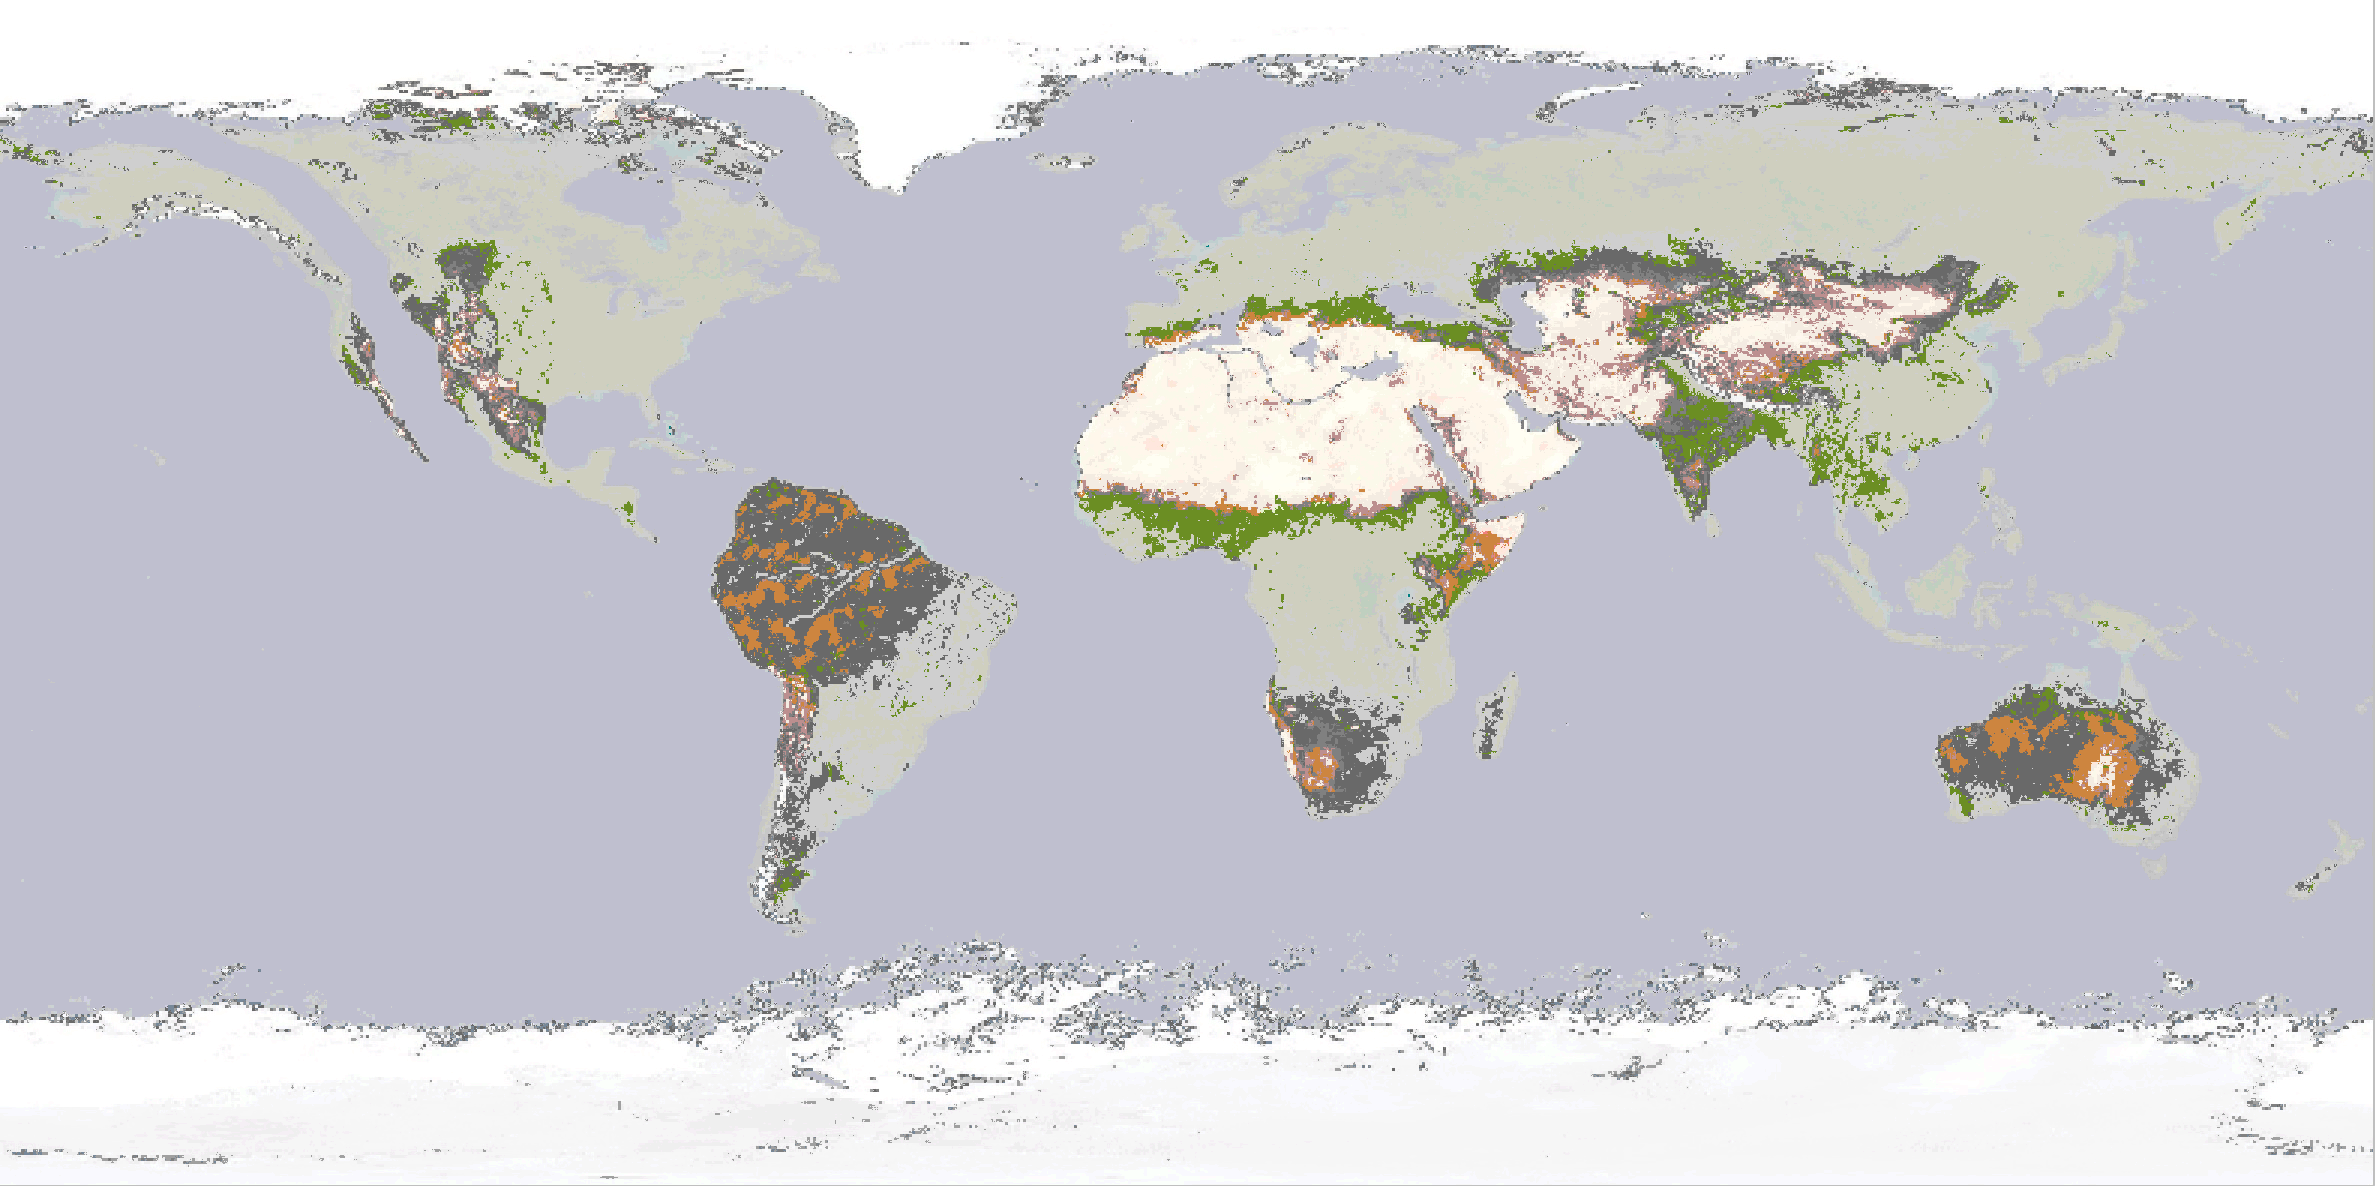
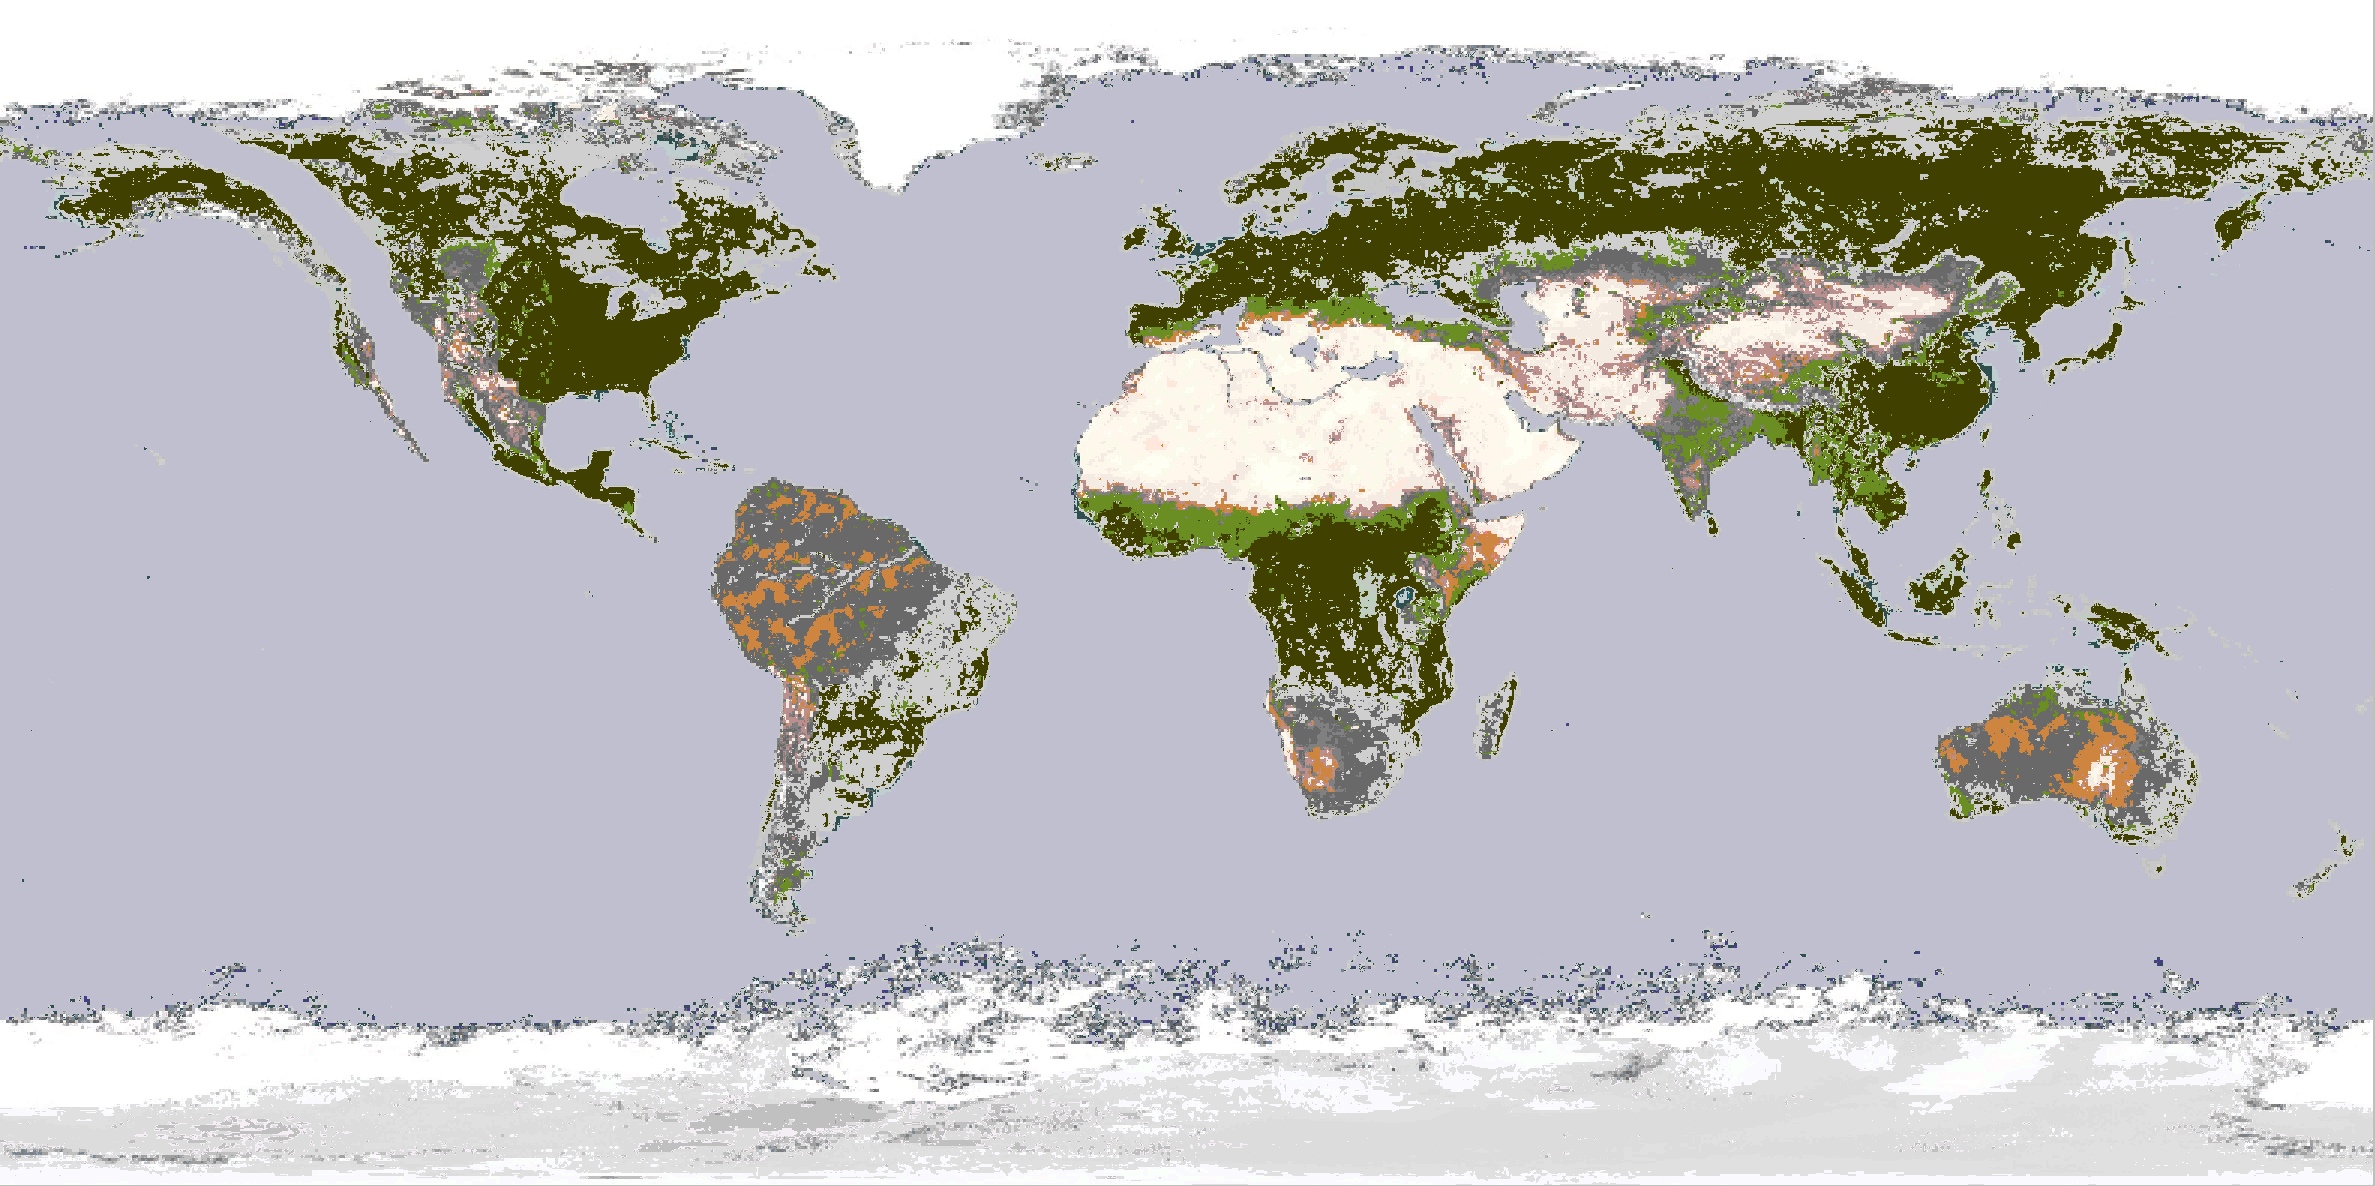
dernières modifs code

diff --git a/src/CopieImage.java b/src/CopieImage.java
@@ -6,10 +6,7 @@ import java.awt.*;
 import java.awt.image.BufferedImage;
 import java.io.File;
 import java.io.IOException;
-import java.util.ArrayList;
-import java.util.Arrays;
-import java.util.HashMap;
-import java.util.Map;
+import java.util.*;
 
 public class CopieImage {
     private BufferedImage image;
@@ -160,6 +157,12 @@ public class CopieImage {
     }
 
 
+    /**
+     * Récupère les positions des pixels pour un biome spécifique
+     * @param clusters
+     * @param biomeId
+     * @return
+     */
     public ArrayList<int[]> getPositionsForBiome(ArrayList<Integer> clusters, int biomeId) {
         ArrayList<int[]> positions = new ArrayList<>();
 
@@ -179,6 +182,12 @@ public class CopieImage {
     }
 
 
+    /**
+     * Affiche les écosystèmes sur l'image en utilisant les positions et les clusters
+     * @param outputPath Chemin de sortie pour l'image résultante
+     * @param positions Liste des positions des pixels
+     * @param ecosClusters Liste des clusters d'écosystèmes
+     */
     public void afficherEcosystemes(String outputPath, ArrayList<int[]> positions, ArrayList<Integer> ecosClusters) {
         BufferedImage newImage = new BufferedImage(image.getWidth(), image.getHeight(), BufferedImage.TYPE_3BYTE_BGR);
         Color[] palette = Palette.getRandomColors(100); // Génère 100 couleurs distinctes
@@ -215,54 +224,14 @@ public class CopieImage {
     }
 
 
-    public void appliquerCouleurs(String outputPath, ArrayList<Integer> points) {
-        BufferedImage newImage = new BufferedImage(image.getWidth(), image.getHeight(), BufferedImage.TYPE_3BYTE_BGR);
-
-        // on reforme les groupes de point
-        ArrayList<ArrayList<Integer>> groups = new ArrayList<>();
-        for (int i = 0; i < points.size(); i++) {
-            int groupe = points.get(i);
-            while (groupe >= groups.size()) {
-                groups.add(new ArrayList<>());
-            }
-            groups.get(groupe).add(i);
-        }
-
-        // on calcul la couleur moyenne de chaque groupe
-        ArrayList<Color> centroids = new ArrayList<>();
-        for (ArrayList<Integer> group : groups) {
-            if (group.isEmpty()) continue;
-            int r = 0, g = 0, b = 0;
-            for (Integer index : group) {
-                int rgb = image.getRGB(index % image.getWidth(), index / image.getWidth());
-                r += (rgb >> 16) & 0xFF;
-                g += (rgb >> 8) & 0xFF;
-                b += rgb & 0xFF;
-            }
-            r /= group.size();
-            g /= group.size();
-            b /= group.size();
-            centroids.add(new Color(r, g, b));
-        }
-
-        // on applique la couleur moyenne de chaque groupe sur l'image
-        for (int i = 0; i < points.size(); i++) {
-            int groupe = points.get(i);
-            if (groupe >= centroids.size()) continue; // ignore les groupes non assignés
-            Color c = centroids.get(groupe);
-            newImage.setRGB(i % image.getWidth(), i / image.getWidth(), c.getRGB());
-        }
-
-        try {
-            ImageIO.write(newImage, "png", new File(outputPath));
-        } catch (IOException e) {
-            e.printStackTrace();
-        }
-    }
-
+    /**
+     * Associe les clusters aux biomes en fonction de la moyenne des couleurs (etiquettes)
+     * @param clusters
+     * @param biomes
+     * @return
+     */
     public Map<Integer, String> associerClustersBiomes(ArrayList<Integer> clusters, Map<String, ArrayList<Integer>> biomes) {
         int width = image.getWidth();
-        int height = image.getHeight();
 
         // Étape 1 : moyenne des couleurs par cluster
         Map<Integer, ArrayList<Integer>> clusterToSum = new HashMap<>();
@@ -326,6 +295,10 @@ public class CopieImage {
         return clusterToBiome;
     }
 
+    /**
+     * Redimensionne l'image si nécessaire pour qu'elle ne dépasse pas 750x750 pixels
+     * fonction qui n'est plus utilisée dans la version actuelle
+     */
     public void resizeImage() {
         int width = image.getWidth();
         int height = image.getHeight();
@@ -348,35 +321,42 @@ public class CopieImage {
 
 
 
-
     public static void main(String[] args) {
-
-
         CopieImage copieImage = new CopieImage();
 
-        String nomImage = "Earth";
+        // On demande le nom de l'image à l'utilisateur
+        Scanner sc = new Scanner(System.in);
+        System.out.print("Entrez le nom de l'image (avec extension) : ");
 
-        String inputPath = "cartes/"+nomImage+".png";
-        String flouPath = "cartes2/"+nomImage+"_flou.png";
-        String outputPathColor = "cartes2/"+nomImage+"_couleur.png";
+        String entree = sc.nextLine();
+
+        // On construit le chemin d'entrée de l'image
+        String inputPath = "cartes/"+entree;
+
+        // On recupère le nom de l'image
+        String nomImage = entree.substring(0, entree.lastIndexOf(".")).trim().replaceAll(" ", "_");
+        String extension = "png";
+
+        // On demande l'extension voulue par l'utilisateur pour l'image de sortie
+        System.out.println("Souhaitez-vous une extension précise pour l'image de sortie ? (png par défaut)");
+        entree = sc.nextLine();
+        if (!entree.isEmpty()) {
+            extension = entree;
+        }
+
+        String flouPath = "cartes2/"+nomImage+"_flou."+extension;
+        String outputPathColor = "cartes2/"+nomImage+"_couleur."+extension;
 
 
-        // Load and save the image
+        // On charge l'image
         copieImage.saveImage(inputPath);
 
-//        // Reduire l'image si nécessaire
-//        copieImage.resizeImage();
-
+        // On applique un flou gaussien à l'image
         FlouGauss flou = new FlouGauss(3);
-
-        // Write the image to a new file
         copieImage.copyImageFlou(flouPath, flou);
 
         // On charge l'image flou
         copieImage.saveImage(flouPath);
-
-
-
 
 
 
@@ -411,20 +391,12 @@ public class CopieImage {
 
         Palette p = new Palette(colors);
 
-        // On copie l'image en utilisant la palette de couleurs
+        // On copie l'image en utilisant la palette de couleurs pour réduire le nombre de couleurs
         copieImage.copyImageClosestColor(outputPathColor, p);
-
         copieImage.saveImage(outputPathColor);
 
 
-
-
-
-
-
-
-
-        // On
+        // Définition des biomes avec leurs couleurs moyennes
         Map<String,ArrayList<Integer>> biomes = new HashMap<>();
         biomes.put("Tundra",new ArrayList<>(Arrays.asList(71,70,61)));
         biomes.put("Taïga",new ArrayList<>(Arrays.asList(43,50,35)));
@@ -439,19 +411,18 @@ public class CopieImage {
         biomes.put("Montagne",new ArrayList<>(Arrays.asList(210, 188, 147)));
 
 
-        /*
-         * CLUSTERING DBSCAN
-         */
 
+        // On récupère les données de l'image (R, G, B) sous forme de liste
         ArrayList<int[]> list_data = copieImage.getData();
 
+        // On crée un objet KMeans pour le clustering avec 7 clusters au maximum (configurable)
         KMeans kmeans = new KMeans(7);
 
         System.out.println("Début du calcul des clusters...");
         long startTime = System.currentTimeMillis();
-        ArrayList<Integer> list_pixel_cluster = kmeans.calculate_clusters(list_data);
 
-        //copieImage.appliquerCouleurs("cartes2/"+nomImage+"_cluster.png", list_pixel_cluster);
+        // On calcule les clusters à partir des données de l'image
+        ArrayList<Integer> list_pixel_cluster = kmeans.calculate_clusters(list_data);
 
         long endTime = System.currentTimeMillis();
 
@@ -481,7 +452,7 @@ public class CopieImage {
             System.out.println("\nBiome " + etiquettes.get(biomeId) + " : " + allNumCluster.get(biomeId));
 
             // Affichage du biome
-            String outputBiomePath = "cartes2/" + nomImage + "_" + biomeName + ".png";
+            String outputBiomePath = "cartes2/" + nomImage + "_" + biomeName + "."+ extension;
             copieImage.afficherBiome(outputBiomePath,list_pixel_cluster, biomeId);
 
             // On crée un objet DBSCANPosition pour le clustering
@@ -494,7 +465,7 @@ public class CopieImage {
             System.out.println("Début du calcul des clusters... ("+biomeName+")");
             ArrayList<Integer> ecoClusters = dbscanPos.calculate_clusters(positions);
 
-            String destFichier = "cartes2/" + nomImage+"_"+biomeName+"_clusters" + ".png";
+            String destFichier = "cartes2/" + nomImage+"_"+biomeName+"_clusters" + "."+extension;
             System.out.println("Copie de l'image dans "+destFichier);
 
             // Affichage des écosystèmes

diff --git a/src/clustering/KMeans.java b/src/clustering/KMeans.java
@@ -150,6 +150,11 @@ public class KMeans implements AlgoClustering{
         // On parcourt la map des caractéristiques pour associer les couleurs à leurs centroïdes respectifs
         for (Color color : colorMap.keySet()) {
             int closestCentroidIndex = find_closest_centroid(color);
+
+            if (closestCentroidIndex < 0 || closestCentroidIndex >= groupes.size()) {
+                System.err.println("Erreur : Index de centroïde invalide " + closestCentroidIndex);
+                continue; // On ignore les couleurs qui n'ont pas de centroïde valide
+            }
             groupes.get(closestCentroidIndex).add(color); // Ajouter la couleur au groupe du centroïde le plus proche
         }
 
@@ -175,7 +180,7 @@ public class KMeans implements AlgoClustering{
             double distance = norme.distanceCouleur(color, centroid);
 
             // Si la distance est plus petite que la distance minimale, on met à jour l'index et la distance minimale
-            if (distance < minDistance) {
+            if (distance < minDistance || minDistance == Double.MAX_VALUE) {
                 minDistance = distance;
                 closestIndex = i;
             }

diff --git a/src/clustering/DaviesBouldin.java b/src/clustering/DaviesBouldin.java
@@ -36,7 +36,7 @@ public class DaviesBouldin {
             // Calcule la distance entre le point et le centroïde du cluster
             double distance = norme.distanceCouleur(pointColor, centroids.get(clusterIndex));
 
-            S[clusterIndex] += distance * distance * distance; // On accumule la distance au cube pour ne pas privilégier les points éloignés
+            S[clusterIndex] += distance * distance; // On accumule la distance au carré pour ne pas privilégier les points éloignés
 
             clusterSizes[clusterIndex]++; // On compte le nombre de points dans le cluster
         }
